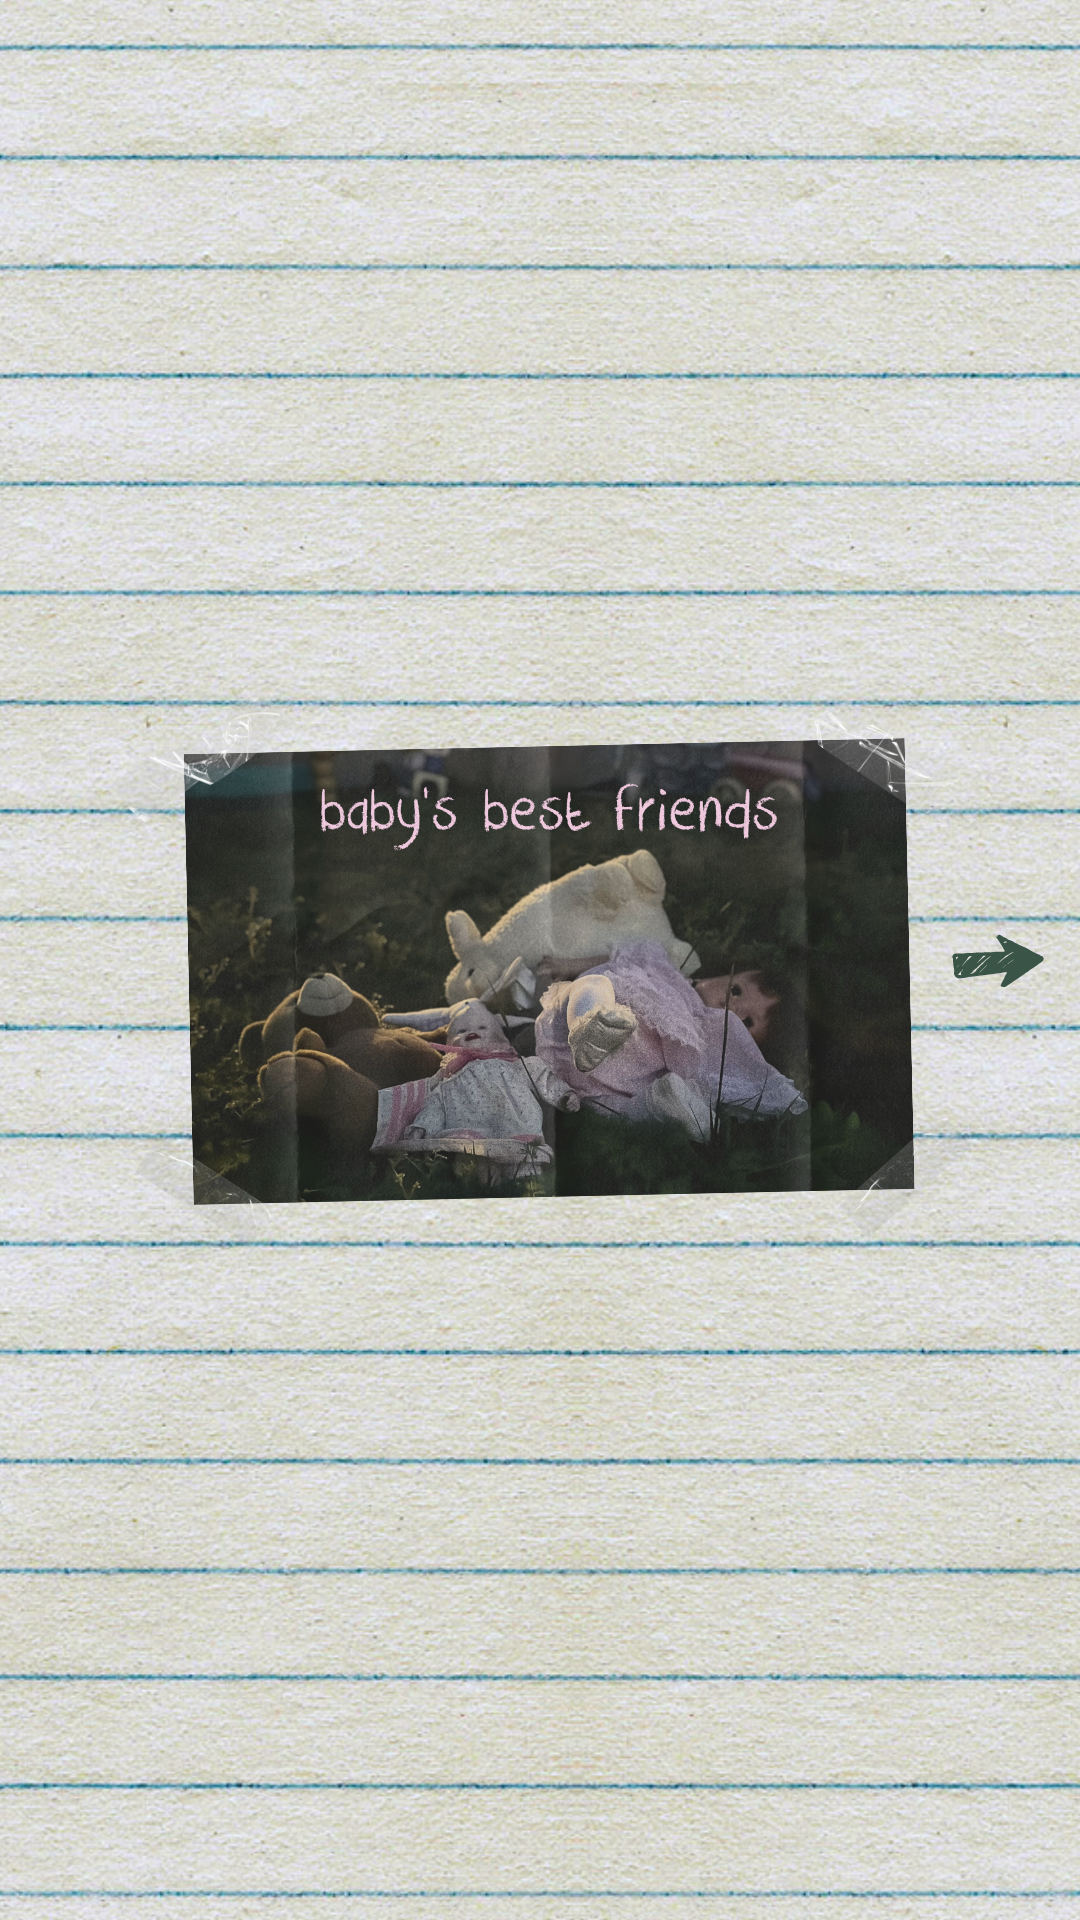
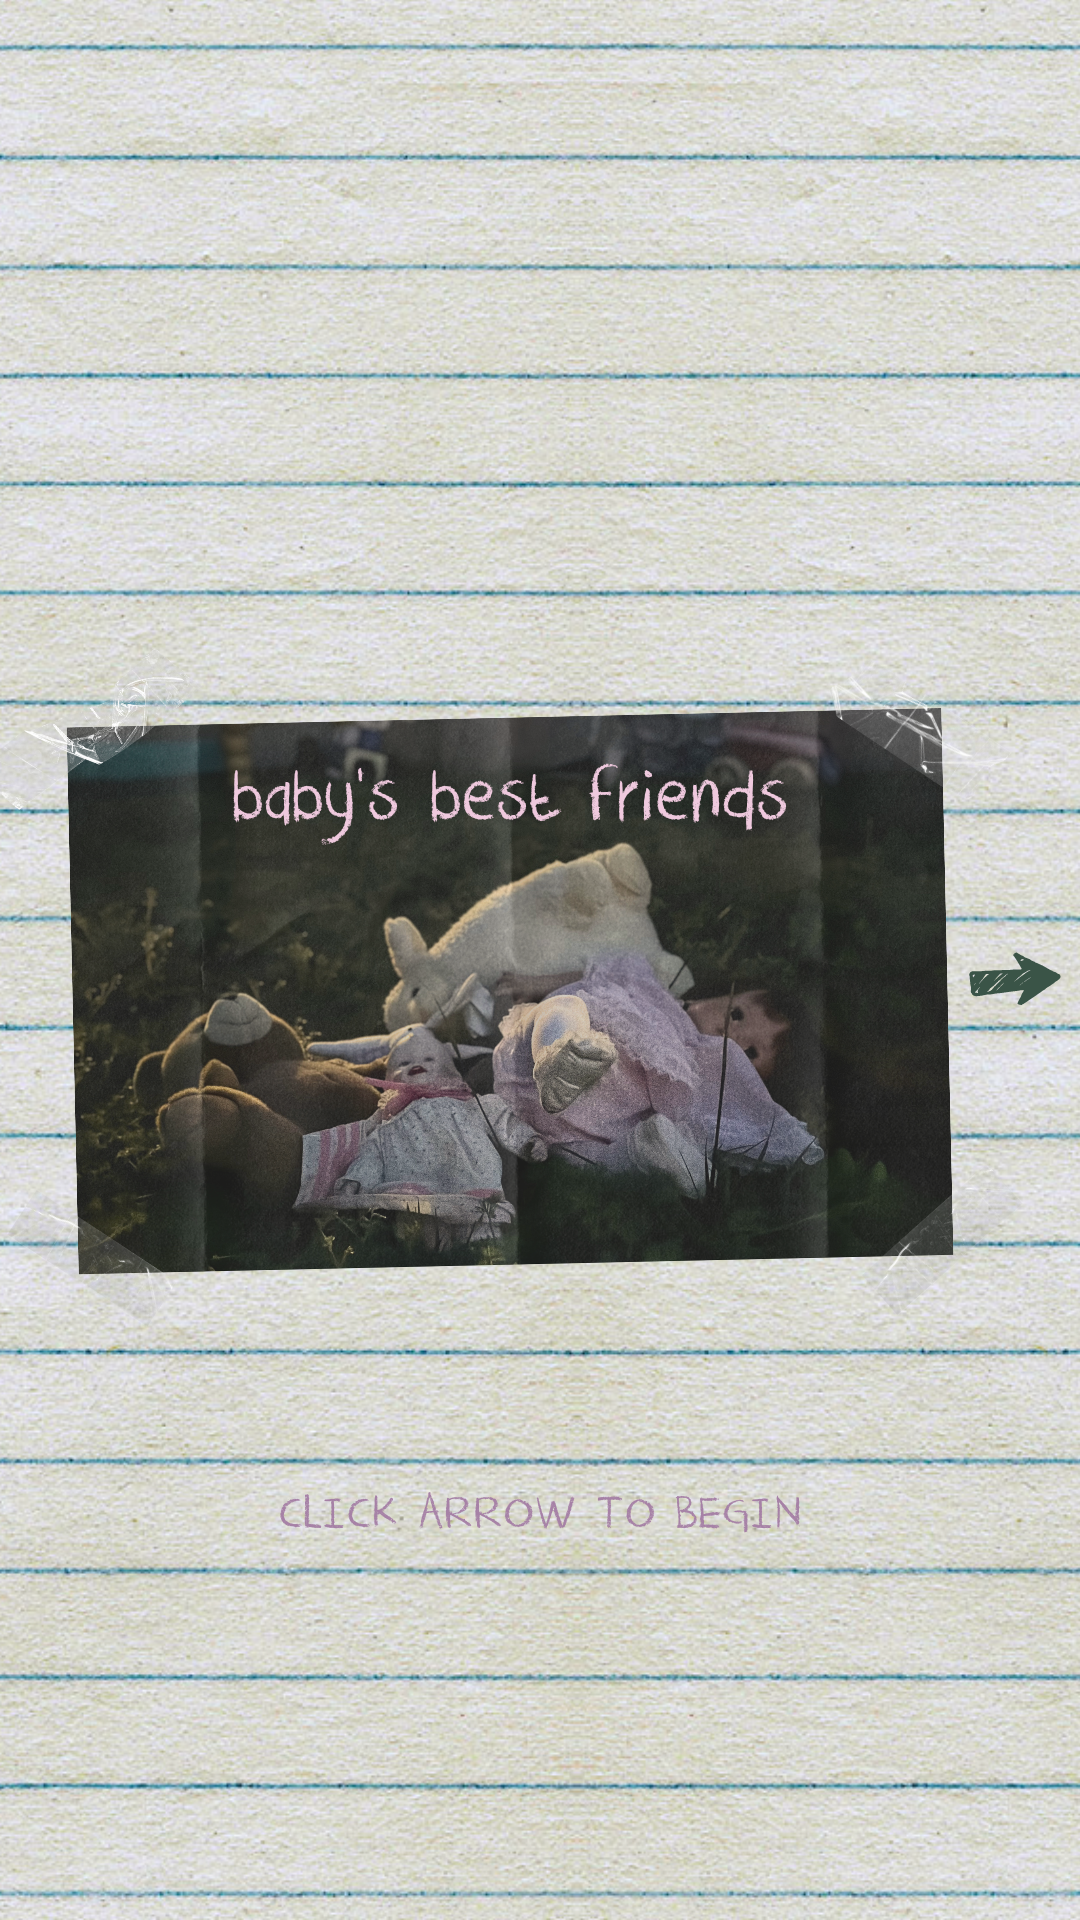
send to server

diff --git a/style.css b/style.css
@@ -53,7 +53,7 @@
         width: 400px;
     }
     .container {
-        background-image: url(images/phone-cover-alt.png); /* Specify the path to the alternate image */
+        background-image: url(images/phone-cover.png); /* Specify the path to the alternate image */
     }
 
     .image {
